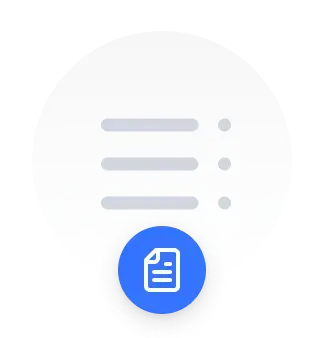
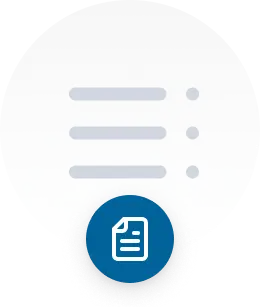
[WEB-4617] chore: empty state asset and theme improvement (#3813)
* chore: mobile auth screen improvements

* chore: project search empty state asset

* chore: empty state updated

* chore: code refactor

* chore: empty state updated

diff --git a/apps/web/ee/components/mobile/authentication/o-auth/root.tsx b/apps/web/ee/components/mobile/authentication/o-auth/root.tsx
@@ -20,12 +20,6 @@ export const OAuthRoot: FC<TOAuthRoot> = (props) => {
   if (!isOAuthEnabled) return null;
   return (
     <div className="relative space-y-6">
-      <div className="mt-4 flex items-center pt-2">
-        <hr className="w-full border-custom-border-100" />
-        <p className="mx-3 flex-shrink-0 text-center text-sm text-custom-text-400">or</p>
-        <hr className="w-full border-custom-border-100" />
-      </div>
-
       <div className="space-y-2">
         {/* google authentication */}
         {config?.is_google_enabled && (
@@ -40,6 +34,12 @@ export const OAuthRoot: FC<TOAuthRoot> = (props) => {
             <GitHubAuthButton title="Continue with Github" invitationId={invitationId} />
           </div>
         )}
+      </div>
+
+      <div className="mt-4 flex items-center pt-2">
+        <hr className="w-full border-custom-border-100" />
+        <p className="mx-3 flex-shrink-0 text-center text-sm text-custom-text-400">or</p>
+        <hr className="w-full border-custom-border-100" />
       </div>
     </div>
   );

diff --git a/apps/web/ee/components/mobile/authentication/root.tsx b/apps/web/ee/components/mobile/authentication/root.tsx
@@ -125,6 +125,9 @@ export const AuthRoot: FC<TAuthRoot> = (props) => {
           <MobileAuthBanner bannerData={errorInfo} handleBannerData={handleErrorInfo} />
         )}
 
+        {/* oauth */}
+        <OAuthRoot invitationDetails={invitationDetails} config={config} />
+
         {/* auth content */}
         <div>
           {authStep === EMobileAuthSteps.EMAIL && (
@@ -159,9 +162,6 @@ export const AuthRoot: FC<TAuthRoot> = (props) => {
             />
           )}
         </div>
-
-        {/* oauth */}
-        <OAuthRoot invitationDetails={invitationDetails} config={config} />
 
         {/* terms and conditions */}
         <MobileTermsAndConditions />

diff --git a/apps/web/core/components/workspace/sidebar/dropdown-item.tsx b/apps/web/core/components/workspace/sidebar/dropdown-item.tsx
@@ -49,7 +49,7 @@ const SidebarDropdownItem = observer((props: TProps) => {
           <div className="flex items-center justify-start gap-2.5 w-[80%] relative">
             <span
               className={`relative flex h-8 w-8 flex-shrink-0 items-center  justify-center p-2 text-base uppercase font-medium border-custom-border-200 ${
-                !workspace?.logo_url && "rounded-md bg-custom-primary-500 text-white"
+                !workspace?.logo_url && "rounded-md bg-[#026292] text-white"
               }`}
             >
               {workspace?.logo_url && workspace.logo_url !== "" ? (

diff --git a/dev-wiki/core/components/workspace/sidebar/dropdown-item.tsx b/dev-wiki/core/components/workspace/sidebar/dropdown-item.tsx
@@ -50,7 +50,7 @@ const SidebarDropdownItem = observer((props: TProps) => {
           <div className="flex items-center justify-start gap-2.5 w-[80%] relative">
             <span
               className={`relative flex h-8 w-8 flex-shrink-0 items-center  justify-center p-2 text-base uppercase font-medium border-custom-border-200 ${
-                !workspace?.logo_url && "rounded-md bg-custom-primary-500 text-white"
+                !workspace?.logo_url && "rounded-md bg-[#026292] text-white"
               }`}
             >
               {workspace?.logo_url && workspace.logo_url !== "" ? (

diff --git a/apps/web/core/components/workspace/settings/workspace-details.tsx b/apps/web/core/components/workspace/settings/workspace-details.tsx
@@ -167,7 +167,7 @@ export const WorkspaceDetails: FC = observer(() => {
                   />
                 </div>
               ) : (
-                <div className="relative flex h-14 w-14 items-center justify-center rounded bg-gray-700 p-4 uppercase text-white">
+                <div className="relative flex h-14 w-14 items-center justify-center rounded bg-[#026292] p-4 uppercase text-white">
                   {currentWorkspace?.name?.charAt(0) ?? "N"}
                 </div>
               )}
